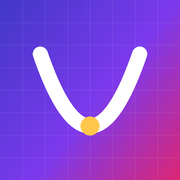
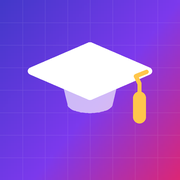
Icône : la toque de diplômé, et un discours lycée plutôt que maths
L'application ne vise pas une matière mais la scolarité : l'icône devient
une toque (plateau blanc net, calotte en retrait, gland doré) sur le dégradé
de l'application. La description affichée à l'installation et l'aperçu de
partage parlent désormais de réviser le lycée et préparer le bac.

Changed region(s): [[0.1389, 0.2222, 0.8611, 0.75]]

diff --git a/docs/index.html b/docs/index.html
@@ -3,7 +3,7 @@
 <head>
 <meta charset="utf-8">
 <meta name="viewport" content="width=device-width, initial-scale=1, viewport-fit=cover">
-<meta name="description" content="Lisa — tout le programme de spécialité mathématiques de première, avec des exercices tirés au sort et corrigés pas à pas.">
+<meta name="description" content="Lisa : réviser le lycée et préparer le bac. Le programme officiel, des exercices tirés au sort et corrigés pas à pas.">
 <meta name="theme-color" content="#16223F">
 <link rel="manifest" href="manifest.webmanifest">
 <link rel="icon" href="icon-192.png" sizes="192x192">
@@ -13,7 +13,7 @@
 <meta name="apple-mobile-web-app-title" content="Lisa">
 <meta property="og:type" content="website">
 <meta property="og:title" content="Lisa">
-<meta property="og:description" content="Tout le programme de spécialité maths de première, avec des exercices tirés au sort et corrigés pas à pas.">
+<meta property="og:description" content="Réviser le lycée et préparer le bac. Le programme officiel, des exercices tirés au sort et corrigés pas à pas.">
 <meta property="og:image" content="https://bertolis-dev.github.io/lisa/apercu.png">
 <meta property="og:url" content="https://bertolis-dev.github.io/lisa/">
 <meta name="twitter:card" content="summary_large_image">

diff --git a/build.py b/build.py
@@ -6,7 +6,7 @@ Assemble les deux livrables a partir de parts/ :
 
 Usage :  python build.py
 """
-import io, os, zlib, struct
+import io, os, math
 
 BASE = os.path.dirname(os.path.abspath(__file__))
 PARTS = os.path.join(BASE, 'parts')
@@ -36,7 +36,7 @@ TETE = """<!doctype html>
 <head>
 <meta charset="utf-8">
 <meta name="viewport" content="width=device-width, initial-scale=1, viewport-fit=cover">
-<meta name="description" content="Lisa — tout le programme de spécialité mathématiques de première, avec des exercices tirés au sort et corrigés pas à pas.">
+<meta name="description" content="Lisa : réviser le lycée et préparer le bac. Le programme officiel, des exercices tirés au sort et corrigés pas à pas.">
 <meta name="theme-color" content="#16223F">
 <link rel="manifest" href="manifest.webmanifest">
 <link rel="icon" href="icon-192.png" sizes="192x192">
@@ -46,7 +46,7 @@ TETE = """<!doctype html>
 <meta name="apple-mobile-web-app-title" content="Lisa">
 <meta property="og:type" content="website">
 <meta property="og:title" content="Lisa">
-<meta property="og:description" content="Tout le programme de spécialité maths de première, avec des exercices tirés au sort et corrigés pas à pas.">
+<meta property="og:description" content="Réviser le lycée et préparer le bac. Le programme officiel, des exercices tirés au sort et corrigés pas à pas.">
 <meta property="og:image" content="https://bertolis-dev.github.io/lisa/apercu.png">
 <meta property="og:url" content="https://bertolis-dev.github.io/lisa/">
 <meta name="twitter:card" content="summary_large_image">
@@ -69,9 +69,9 @@ if ('serviceWorker' in navigator){
 ecrire(os.path.join(SITE, 'index.html'), TETE + corps + PIED)
 
 MANIFESTE = """{
-  "name": "Lisa — Spé maths première",
+  "name": "Lisa, réviser le lycée",
   "short_name": "Lisa",
-  "description": "Tout le programme de spécialité mathématiques de première, avec des exercices tirés au sort et corrigés pas à pas.",
+  "description": "Réviser le lycée et préparer le bac : le programme officiel, des exercices tirés au sort et corrigés pas à pas.",
   "start_url": "./",
   "scope": "./",
   "display": "standalone",
@@ -161,21 +161,39 @@ def parabole(d, ox, oy, k, ex, largeur, xmax, couleur):
         x += 0.02
     trait(d, pts, largeur, couleur)
 
+def polygone_doux(d, pts, r, couleur):
+    d.polygon(pts, fill=couleur)
+    trait(d, pts + [pts[0]], r * 2, couleur)
+
+def arc(cx, cy, rx, ry, a0, a1, n=44):
+    return [(cx + rx * math.cos(a0 + (a1 - a0) * i / n), cy + ry * math.sin(a0 + (a1 - a0) * i / n)) for i in range(n + 1)]
+
+def toque(d, ox, oy, ech):
+    """toque de diplome : plateau net, calotte en retrait, gland dore"""
+    cx, cy = ox, oy - 0.105 * ech
+    dx, dy = 0.325 * ech, 0.140 * ech
+    ht, hb = 0.165 * ech, 0.125 * ech
+    y0 = cy + 0.020 * ech
+    yb = oy + 0.080 * ech
+    calotte = [(cx - ht, y0), (cx + ht, y0), (cx + hb, yb)] + arc(cx, yb, hb, 0.048 * ech, 0, math.pi)[1:-1] + [(cx - hb, yb)]
+    d.polygon(calotte, fill=(255, 255, 255, 165))
+    polygone_doux(d, [(cx, cy - dy), (cx + dx, cy), (cx, cy + dy), (cx - dx, cy)], 0.020 * ech, (255, 255, 255, 255))
+    xg = cx + 0.275 * ech
+    yn = cy + 0.150 * ech
+    trait(d, [(cx + dx * 0.97, cy + 0.004 * ech), (xg - 0.020 * ech, cy + 0.028 * ech),
+              (xg, cy + 0.070 * ech), (xg, yn)], 0.022 * ech, OR + (255,))
+    trait(d, [(xg, yn), (xg, yn + 0.105 * ech)], 0.072 * ech, OR + (255,))
+
 def icone(taille, maskable=False):
     S = taille * 4
     img = degrade(S, S)
     calque = Image.new('RGBA', (S, S), (0, 0, 0, 0))
     d = ImageDraw.Draw(calque)
     pas = S / 8.0
-    for i in range(1, 8):                                  # quadrillage discret
-        d.line([(i * pas, 0), (i * pas, S)], fill=(255, 255, 255, 26), width=max(1, S // 300))
-        d.line([(0, i * pas), (S, i * pas)], fill=(255, 255, 255, 26), width=max(1, S // 300))
-    z = 0.78 if maskable else 1.0                          # zone sûre pour l'icône masquée
-    ox, oy = S / 2, S * (0.5 + 0.20 * z)
-    ex, k = S * 0.138 * z, S * 0.100 * z
-    parabole(d, ox, oy, k, ex, S * 0.082 * z, 2.0, (255, 255, 255, 255))
-    r = S * 0.052 * z
-    d.ellipse([ox - r, oy - r, ox + r, oy + r], fill=OR + (255,))
+    for i in range(1, 8):
+        d.line([(i * pas, 0), (i * pas, S)], fill=(255, 255, 255, 24), width=max(1, S // 300))
+        d.line([(0, i * pas), (S, i * pas)], fill=(255, 255, 255, 24), width=max(1, S // 300))
+    toque(d, S * 0.5, S * 0.5, S * (0.80 if maskable else 1.0))
     img = Image.alpha_composite(img.convert('RGBA'), calque).convert('RGB')
     return img.resize((taille, taille), Image.LANCZOS)
 
@@ -184,7 +202,11 @@ icone(512).save(os.path.join(SITE, 'icon-512.png'))
 icone(180).save(os.path.join(SITE, 'icon-180.png'))
 icone(512, maskable=True).save(os.path.join(SITE, 'icon-512-maskable.png'))
 
-# vignette d'apercu quand on partage le lien (1200 x 630)
+FONTB = 'C:\\Windows\\Fonts\\segoeuib.ttf'
+FONTS = 'C:\\Windows\\Fonts\\seguisb.ttf'
+FONT  = 'C:\\Windows\\Fonts\\segoeui.ttf'
+FONTA = 'C:\\Windows\\Fonts\\arialbd.ttf'
+
 def police(chemins, taille):
     for c in chemins:
         try:
@@ -202,18 +224,16 @@ def vignette():
         d.line([(i * 50, 0), (i * 50, H)], fill=(255, 255, 255, 20), width=2)
     for i in range(1, 13):
         d.line([(0, i * 50), (W, i * 50)], fill=(255, 255, 255, 20), width=2)
-    ox, oy = 980, 436
-    parabole(d, ox, oy, 46, 88, 20, 2.05, (255, 255, 255, 255))
-    d.ellipse([ox - 16, oy - 16, ox + 16, oy + 16], fill=OR + (255,))
+    toque(d, 955, 322, 520)
     img = Image.alpha_composite(img.convert('RGBA'), calque).convert('RGB')
     d = ImageDraw.Draw(img)
-    gros = police([r'C:\Windows\Fonts\segoeuib.ttf', r'C:\Windows\Fonts\arialbd.ttf'], 132)
-    moyen = police([r'C:\Windows\Fonts\seguisb.ttf', r'C:\Windows\Fonts\arial.ttf'], 44)
-    petit = police([r'C:\Windows\Fonts\segoeui.ttf', r'C:\Windows\Fonts\arial.ttf'], 34)
+    gros = police([FONTB, FONTA], 132)
+    moyen = police([FONTS, FONT], 44)
+    petit = police([FONT, FONTA], 34)
     d.text((96, 186), 'Lisa', font=gros, fill=(255, 255, 255))
-    d.text((104, 344), 'Spécialité maths, première générale', font=moyen, fill=(255, 255, 255))
-    d.text((104, 414), 'Tout le programme, des exercices tirés au sort,', font=petit, fill=(232, 226, 255))
-    d.text((104, 458), 'et la correction pas à pas.', font=petit, fill=(232, 226, 255))
+    d.text((104, 344), 'R\u00e9viser le lyc\u00e9e, pr\u00e9parer le bac', font=moyen, fill=(255, 255, 255))
+    d.text((104, 414), 'Le programme officiel, des exercices tir\u00e9s au sort,', font=petit, fill=(232, 226, 255))
+    d.text((104, 458), 'et la correction pas \u00e0 pas.', font=petit, fill=(232, 226, 255))
     img.save(os.path.join(SITE, 'apercu.png'))
 
 vignette()
